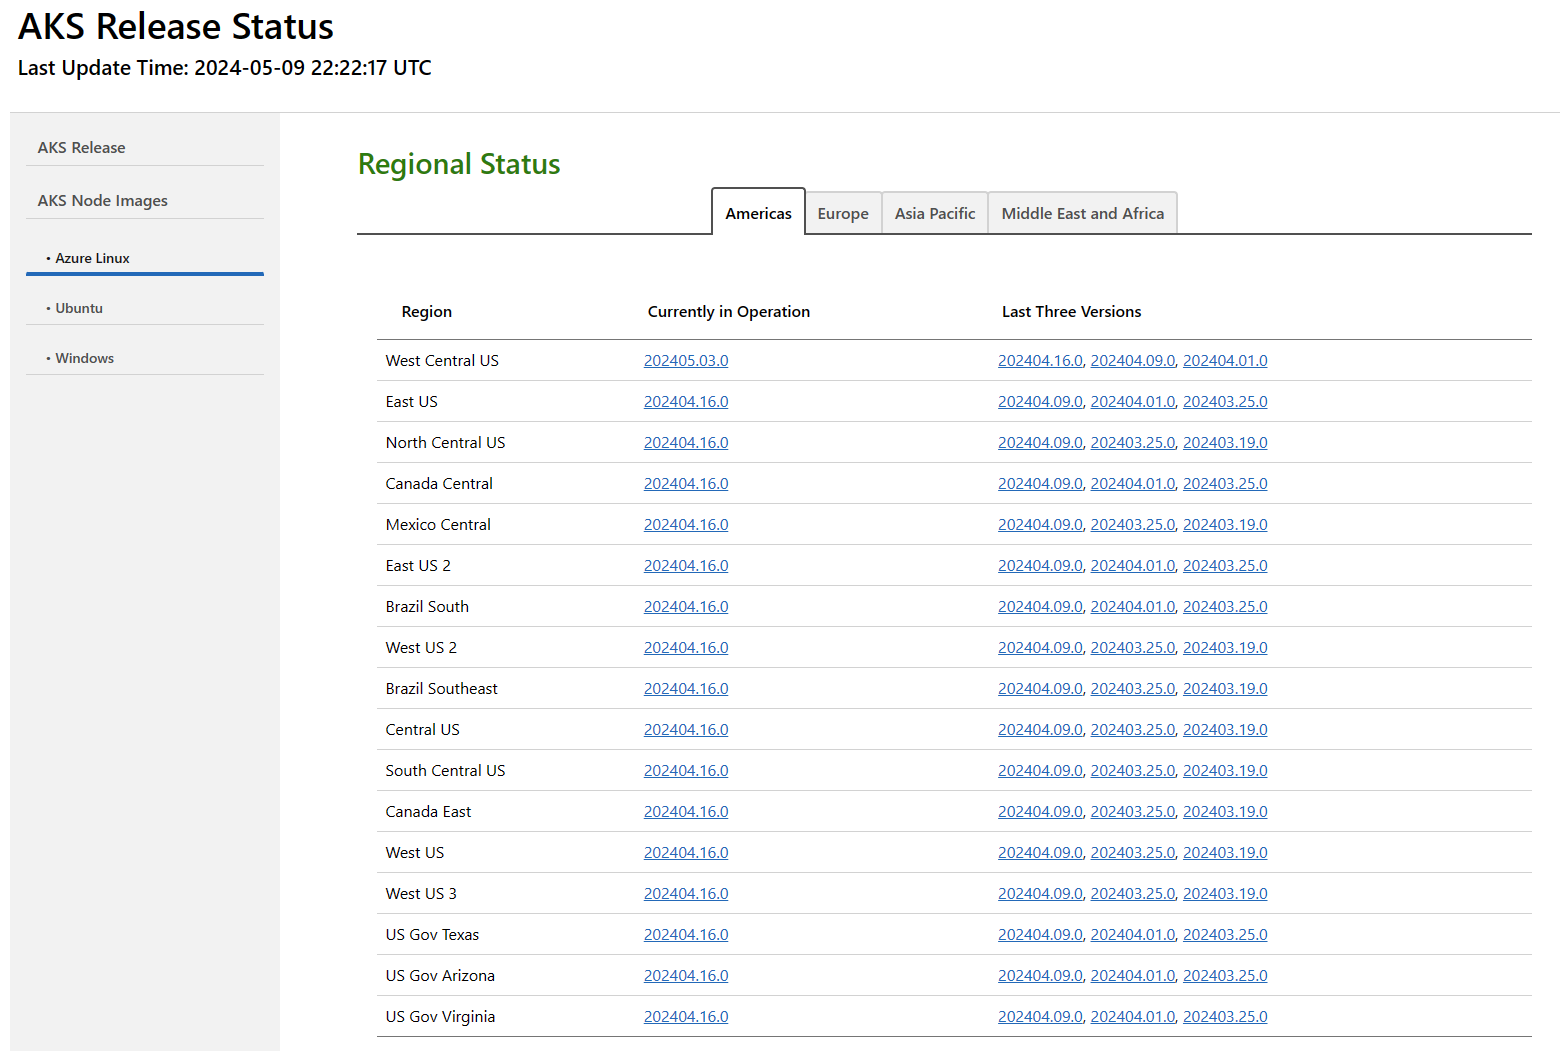
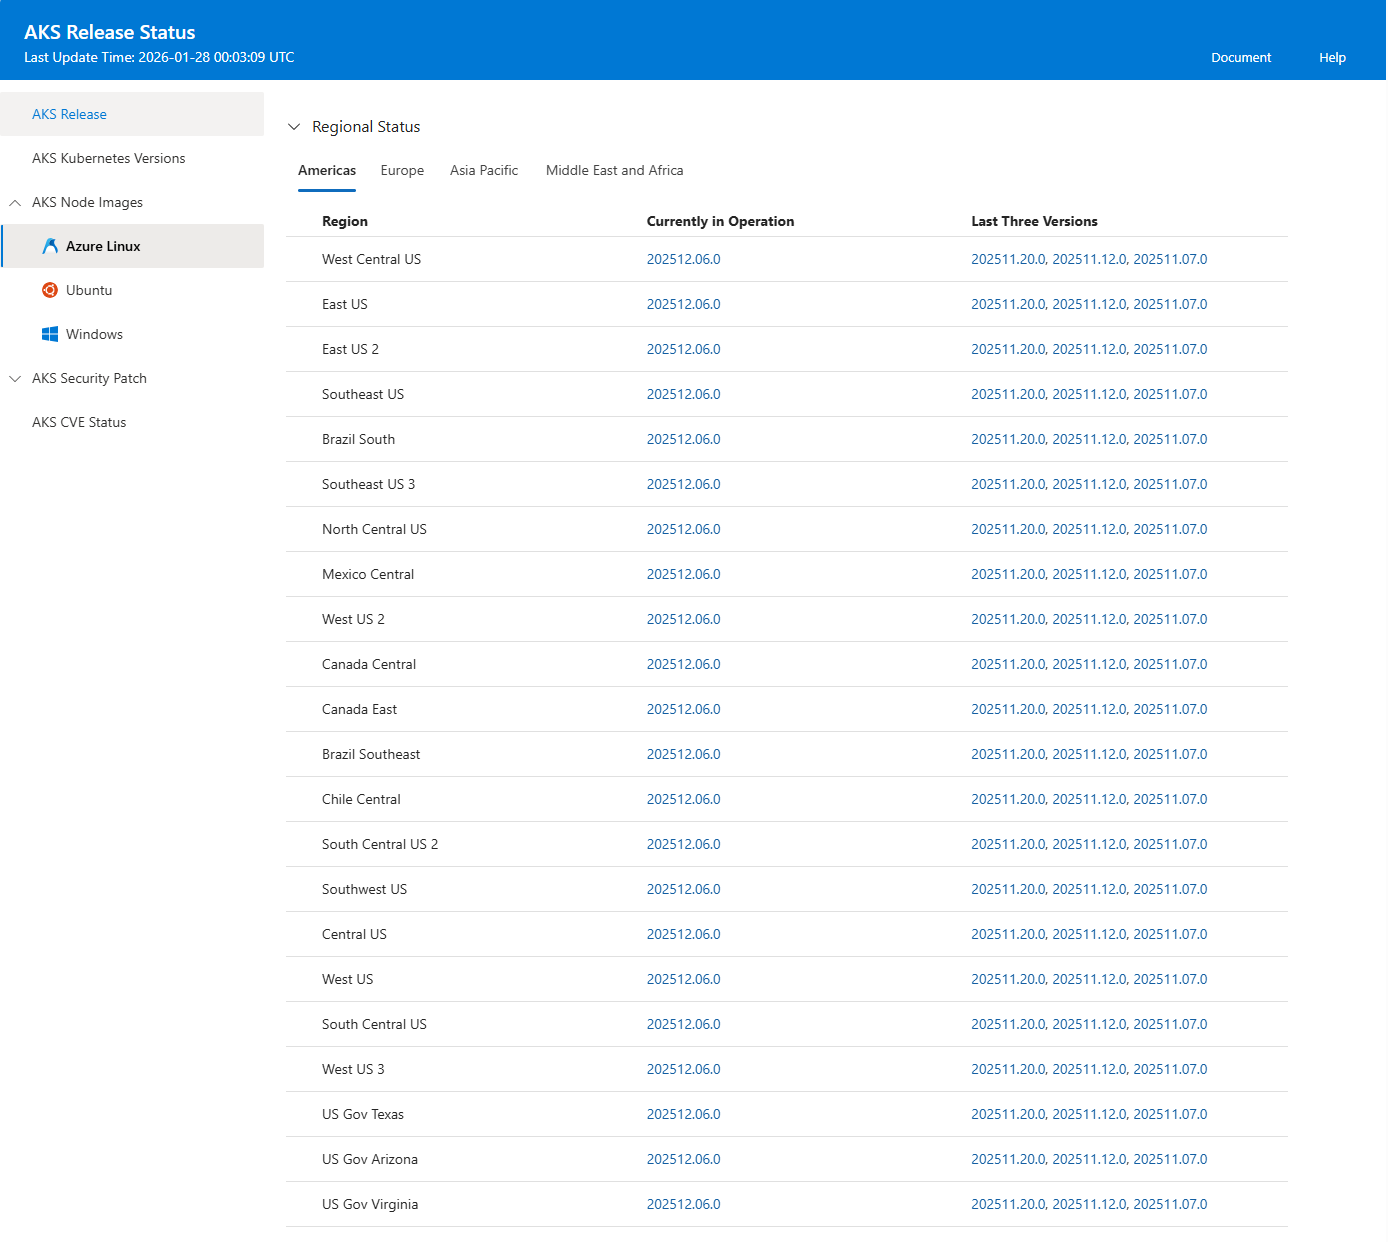
update release tracker new ui

diff --git a/articles/aks/release-tracker.md b/articles/aks/release-tracker.md
@@ -1,23 +1,32 @@
 ---
 title: AKS release tracker
-description: Learn how to determine which Azure regions have the weekly AKS release deployments rolled out in real time. 
+description: Learn how to determine which Azure regions have AKS release deployments rolled out in real time. 
 ms.topic: overview
-ms.date: 05/09/2024
-ms.author: davidsmatlak
-author: davidsmatlak
+ms.date: 02/05/2026
+ms.author: yudian
+author: yudian
 ms.custom: mvc, build-2023
 # Customer intent: "As a cloud administrator, I want to track the deployment status of AKS releases in real time by region, so that I can ensure my clusters are updated with the latest fixes and features promptly."
 ---
 
 # AKS release tracker
 
-AKS releases weekly rounds of fixes and feature and component updates that affect all clusters and customers. It's important for you to know when a particular AKS release is hitting your region, and the AKS release tracker provides these details in real time by versions and regions.
+AKS regularly releases security patches, bug fixes, component updates, and feature updates for all AKS clusters. AKS release tracker provides real-time information on when these AKS releases are landing in the region your AKS cluster is located in.
 
 [!INCLUDE [azure linux 2.0 retirement](./includes/azure-linux-retirement.md)]
 
 ## Overview
 
 With AKS release tracker, you can follow specific component updates present in an AKS version release, such as fixes shipped to a core add-on, and node image updates for Azure Linux, Ubuntu, and Windows. The tracker provides links to the specific version of the AKS [release notes][aks-release] to help you identify relevant release instances. Real time data updates allow you to track the release order and status of each region.
+
+AKS release tracker provides a regional breakdown of the following three independent release trains:
+
+- **AKS release**: This release train ships updates, bug fixes, and security patches for features and add-ons. Some of the feature/add-on updates require upgrading the AKS cluster to a minimum required Kubernetes version, details of which are published in [AKS release notes][aks-release]. These releases are automatically applied to the clusters when the release reaches the region in which the cluster is located.
+- **AKS Kubernetes Versions**: This release train updates the [AKS supported Kubernetes minor and patch versions][supported-kubernetes-versions] and [long-term support (LTS) versions][long-term-support] available in each region. You can upgrade to new Kubernetes versions either manually or automatically using [cluster auto-upgrade][auto-upgrade-cluster].
+- **AKS Node Images**: This release train updates the latest node image available for Azure Linux, Ubuntu, and Windows in each region. You can upgrade to the latest node image version either manually or automatically using [auto-upgrade for node images][auto-upgrade-node-images].
+
+> [!NOTE]
+> You can use [planned maintenance][planned-maintenance] to control the schedule of AKS-initiated maintenance (AKS release from the list above) and user-initiated maintenance (cluster auto-upgrades and node image auto-upgrades).
 
 ## Use the release tracker
 
@@ -33,16 +42,42 @@ The bottom half of the tracker shows the release order. The table has two views:
 
 :::image type="content" source="./media/release-tracker/release-order.png" alt-text="Screenshot of the AKS release tracker's release order table displayed in a web browser.":::
 
+### AKS Supported Kubernetes Versions Release
+
+AKS supports [three GA minor versions of Kubernetes][supported-kubernetes-versions] and may support any number of patches based on upstream community release availability for a given minor version. While AKS provides a [long-term support (LTS) option][long-term-support], which extends the support window for a Kubernetes version to give you more time to plan and test upgrades to newer Kubernetes versions. You can track all the real-time in-operation patches release and depreacation of AKS supported community versions and Long-term support versions by region with the AKS Kubernetes Versions Release tab in AKS Release Tracker. Please reference [AKS release calendar for minor version][aks-release-calendar] too to match with what is shown in release tracker. 
+
+The top half of the tracker shows the regional status on the following:
+1. Supported [community versions of Kubernetes in AKS][supported-kubernetes-versions] and [Long-term support (LTS) Kubernetes versions in AKS][long-term-support] that are **curently in operation** for each region. 
+2. The **Recent Deprecated Version** column shows the latest out-of-support Kubernetes minor version for that region. 
+
+:::image type="content" source="./media/release-tracker/k8s-version-status.png" alt-text="Screenshot of the AKS release tracker's supported Kubernets version regional status table displayed in a web browser.":::
+
+The bottom half of the tracker shows the regional release order of all [supported Kubernetes community versions in AKS][supported-kubernetes-versions] and [long-term support Kubernetes versions in AKS][long-term-support]. The table has two views: *By Region* and *By Version*.
+
+:::image type="content" source="./media/release-tracker/k8s-version-order.png" alt-text="Screenshot of the AKS release tracker's supported Kubernets version release order table displayed in a web browser.":::
+
 ### AKS node image updates
 
-The top half of the tracker shows the current latest node image version and three previously available node image versions for each region. This view is helpful when you want to track the available node image versions by region.
+The top half of **AKS Node Image** tab shows the latest node image version and three previously available node image versions for each region. This view is helpful when you want to track the available node image versions by region.
 
 :::image type="content" source="./media/release-tracker/node-image-status.png" alt-text="Screenshot of the AKS release tracker's node image status table displayed in a web browser.":::
 
-The bottom half of the tracker shows the node image update order. The table has two views: *By Region* and *By Version*.
+The bottom half of **AKS Node Image** tab shows the node image update order. The table has two views: *By Region* and *By Version*.
 
 :::image type="content" source="./media/release-tracker/node-image-order.png" alt-text="Screenshot of the AKS release tracker's node image order table displayed in a web browser.":::
+
+The **AKS Security Patch** tab shows the [last node image security patch version][auto-upgrade-node-images] for each region and update order.
+
+:::image type="content" source="./media/release-tracker/security-patch.png" alt-text="Screenshot of the AKS release tracker's node image order table displayed in a web browser.":::
 
 <!-- LINKS - external -->
 [aks-release]: https://github.com/Azure/AKS/releases
 [release-tracker-webpage]: https://releases.aks.azure.com/webpage/index.html
+
+<!-- LINKS - internal -->
+[supported-kubernetes-versions]: supported-kubernetes-versions.md
+[long-term-support]: long-term-support.md
+[auto-upgrade-cluster]: auto-upgrade-cluster.md
+[auto-upgrade-node-images]: auto-upgrade-node-os-image.md
+[planned-maintenance]: planned-maintenance.md
+[aks-release-calendar]: supported-kubernetes-versions.md#aks-kubernetes-release-calendar
